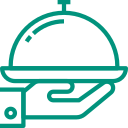
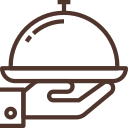
add some css and change mages

Changed region(s): [[0.0, 0.0, 1.0, 1.0]]

diff --git a/booking/src/app/components/bookingcard.jsx b/booking/src/app/components/bookingcard.jsx
@@ -46,7 +46,7 @@ function Bookingcard() {
       </div>
     </div>
 
-    <button className='bg-primary w-40 p-2 rounded-md text-white text-sm mt-4'>
+    <button className='bg-secondary w-40 p-2 rounded-md text-white text-sm mt-4'>
       Reserve your room
     </button>
   </div>
@@ -86,7 +86,7 @@ function Bookingcard() {
       </div>
     </div>
 
-    <button className='bg-primary w-40 p-2 rounded-md text-white text-sm mt-4'>
+    <button className='bg-secondary w-40 p-2 rounded-md text-white text-sm mt-4'>
       Reserve your room
     </button>
   </div>

diff --git a/booking/src/app/components/navbar.jsx b/booking/src/app/components/navbar.jsx
@@ -20,7 +20,7 @@ function Navbar() {
         <header>
             <nav
                 className={`font-bitter py-4 fixed top-0 left-0 w-full z-20 transition-colors duration-300 ${
-                    isScrolled ? 'bg-white text-black shadow-md' : 'bg-transparent text-white'
+                    isScrolled ? 'bg-primary text-white shadow-md' : 'bg-transparent text-white'
                 }`}
             >
                 <div className='flex mx-auto items-center sm:justify-around justify-between px-2 sm:px-0'>

diff --git a/booking/src/app/components/reservation.jsx b/booking/src/app/components/reservation.jsx
@@ -40,7 +40,7 @@ function Reservation() {
                     <LuUser />
                 </div>
             </div>
-            <button className='rounded-full  w-full   h-10 sm:h-8 lg:h-10  bg-teal-600 text-white text-xl font-bitter' >Find now</button>
+            <button className='rounded-full  w-full   h-10 sm:h-8 lg:h-10  bg-secondary text-white text-xl font-bitter' >Find now</button>
 
         </div>
     )
